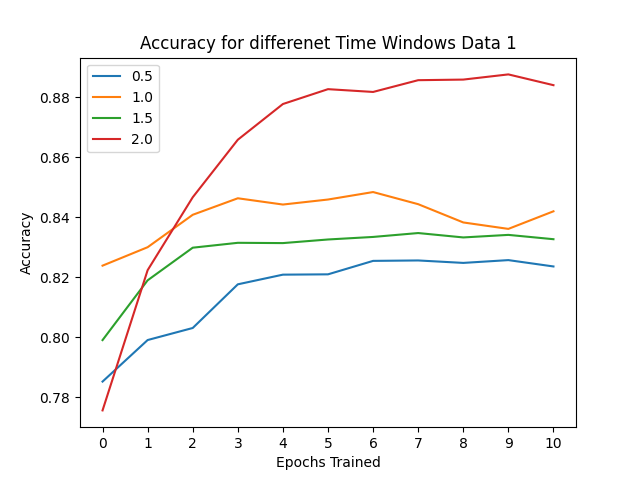
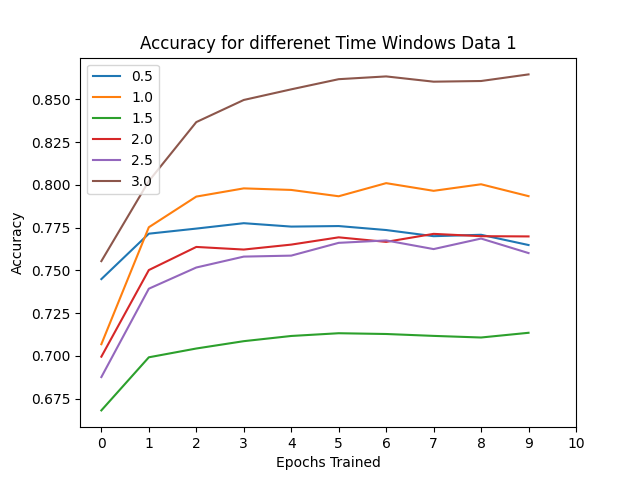
added the models

diff --git a/build_data.py b/build_data.py
@@ -128,8 +128,8 @@ def getSampledData(df, st, end, window, fps=30):
     X_train = np.array(x_train)
     y_train = np.array(y_train)
 
-        
     return X_train,y_train
+
 
 def getContinuousData(df, from_video, to_video, window_sec, fps = 30):
     
@@ -143,7 +143,12 @@ def getContinuousData(df, from_video, to_video, window_sec, fps = 30):
     window_frames = int(window_sec*fps)
     
     for video in tqdm(range(from_video, to_video)):#len(df)
-        #loop over all the 5 minute video files
+        
+        # to loop back and get data from start for different folds of validation
+        if video >= len(df):
+            video = video - len(df)
+        
+        # loop over all the 5 minute video files
         for loc in range(len(df[video]) -1):
 
             #loop over all the turns in the video and get the gaze and the role from the data frame
@@ -447,7 +452,7 @@ def getPredictDatav2(df, from_video, to_video, window_sec, future_sec, fps=30):
     y_train = np.array(y_train)
     return X_train, y_train 
 
-def buildData(window_sec, mode, future =2):
+def buildData(window_sec, mode, future =2, train_start=0, train_end=110, test_start=110, test_end=155):
     #open the file containing the gaze information
     df = [] 
     with open(r'df_updated.pth.tar', 'rb') as handle:
@@ -457,8 +462,8 @@ def buildData(window_sec, mode, future =2):
     #window_sec = 1 # define the window of the gaze you need
     X_train, y_train, X_test, y_test = [],[],[],[]
     if mode == 'dc': 
-        X_train, y_train = getContinuousData(df,  0, 110, window_sec) #make trainData
-        X_test, y_test   = getContinuousData(df, 110, 155, window_sec) #make testData
+        X_train, y_train = getContinuousData(df,  train_start, train_end, window_sec) #make trainData
+        X_test, y_test   = getContinuousData(df, test_start, test_end, window_sec) #make testData
     elif mode =='p':
         X_train, y_train = getPredictData(df,   0, 110, window_sec, future) #make trainData
         X_test, y_test   = getPredictData(df, 110, 155, window_sec, future) #make testData

diff --git a/build_and_run.py b/build_and_run.py
@@ -68,9 +68,30 @@ def buildAndRunPredictv2(windows):
     with open('Predictionv2_Results.tar', 'wb') as handle:
         pickle.dump(accc_dict, handle)
 
+
+def build_run_validate_cont(windows):
+    accc_dict = {}
+    for window in windows:
+        #build the data files
+        print("Window Size: ", window)
+        for i in range(11):
+            train_start = 0 + i * 10 
+            train_end =  110 + (i*10)
+            test_start = train_end
+            test_end = 155 + (i * 10)
+            train_size, test_size = buildData(window, 'dc', train_start=train_start, train_end=train_end, test_start=test_start, test_end=test_end)
+            #run the model and show the results
+            accuracies = runModel(window)
+
+            accc_dict[i] = {"train_size": train_size, 'test_size': test_size, 'acc':accuracies}
+        
+    with open('Detection_Results_Continuous_Validation.tar', 'wb') as handle:
+        pickle.dump(accc_dict, handle)
+
+
 if __name__ == '__main__':
     args = sys.argv   
-    if len(args)!= 2:
+    if len(args) < 2:
         print("Wrong number of arguments, please specify the window size in seconds")
         sys.exit()
     mode = args[1]
@@ -83,7 +104,11 @@ if __name__ == '__main__':
     elif mode == 'dc':
         windows = [0.5, 1.0, 1.5, 2.0, 2.5, 3.0]
         print("Building max number of samples from a single turn and training detection model for following windows: ", windows)
-        buildAndRunDetectCont(windows)
+        if len(args) == 2:
+            buildAndRunDetectCont(windows)
+        else:
+            print('building and validating for the window size 2')
+            build_run_validate_cont([2.0])
     elif mode == 'p':
         #the way current code is written this cannot work for the situation when total time is greate than 2 so should rewrite the build and predict function in the build file
         windows = [(1.0,0.25), (1.0, 0.5), (1.0,0.75), (1.0, 1.0)] 

diff --git a/model.py b/model.py
@@ -125,8 +125,20 @@ class ANN(nn.Module):
 class CNN1DModel(nn.Module):
     def __init__(self, input_dim, num_filters, kernel_size, output_dim):
         super(CNN1DModel, self).__init__()
-        self.conv_layer = nn.Sequential(
+        self.conv_layer1 = nn.Sequential(
             nn.Conv1d(in_channels=input_dim, out_channels=num_filters, kernel_size=kernel_size),
+            nn.ReLU(),
+            nn.MaxPool1d(kernel_size=2)
+        )
+
+        self.conv_layer2 = nn.Sequential(
+            nn.Conv1d(in_channels=num_filters, out_channels=num_filters, kernel_size=kernel_size),
+            nn.ReLU(),
+            nn.MaxPool1d(kernel_size=2)
+        )
+
+        self.conv_layer3 = nn.Sequential(
+            nn.Conv1d(in_channels=num_filters, out_channels=num_filters, kernel_size=kernel_size),
             nn.ReLU(),
             nn.MaxPool1d(kernel_size=2)
         )
@@ -146,7 +158,10 @@ class CNN1DModel(nn.Module):
         #print((num_filters+1), (num_filters+1)*28)
 
     def forward(self, x):
-        x = self.conv_layer(x)
+        x = self.conv_layer1(x)
+        x = self.conv_layer2(x)
+        x = self.conv_layer3(x)
+
         #print(x.shape)
         x = x.view(x.size(0), -1)
         #print(x.shape)

diff --git a/runFTransformer.py b/runFTransformer.py
@@ -128,7 +128,7 @@ def runModel(window_sec):
 
 
     #region hyperparameters
-    epochs = 10
+    epochs = 25
     batch_size = 32
     learningRate = 1e-5
 
